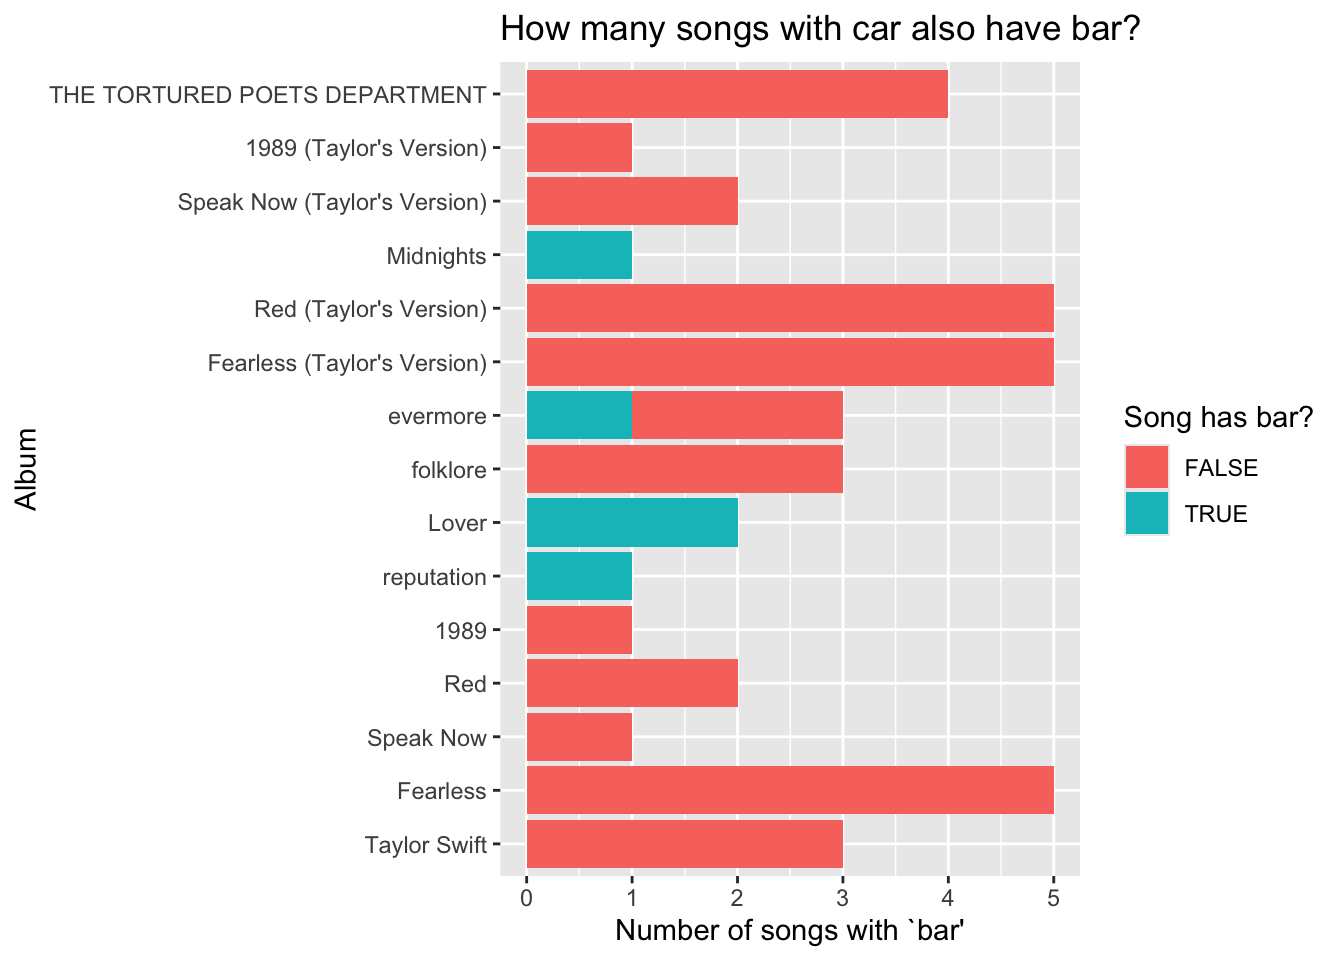
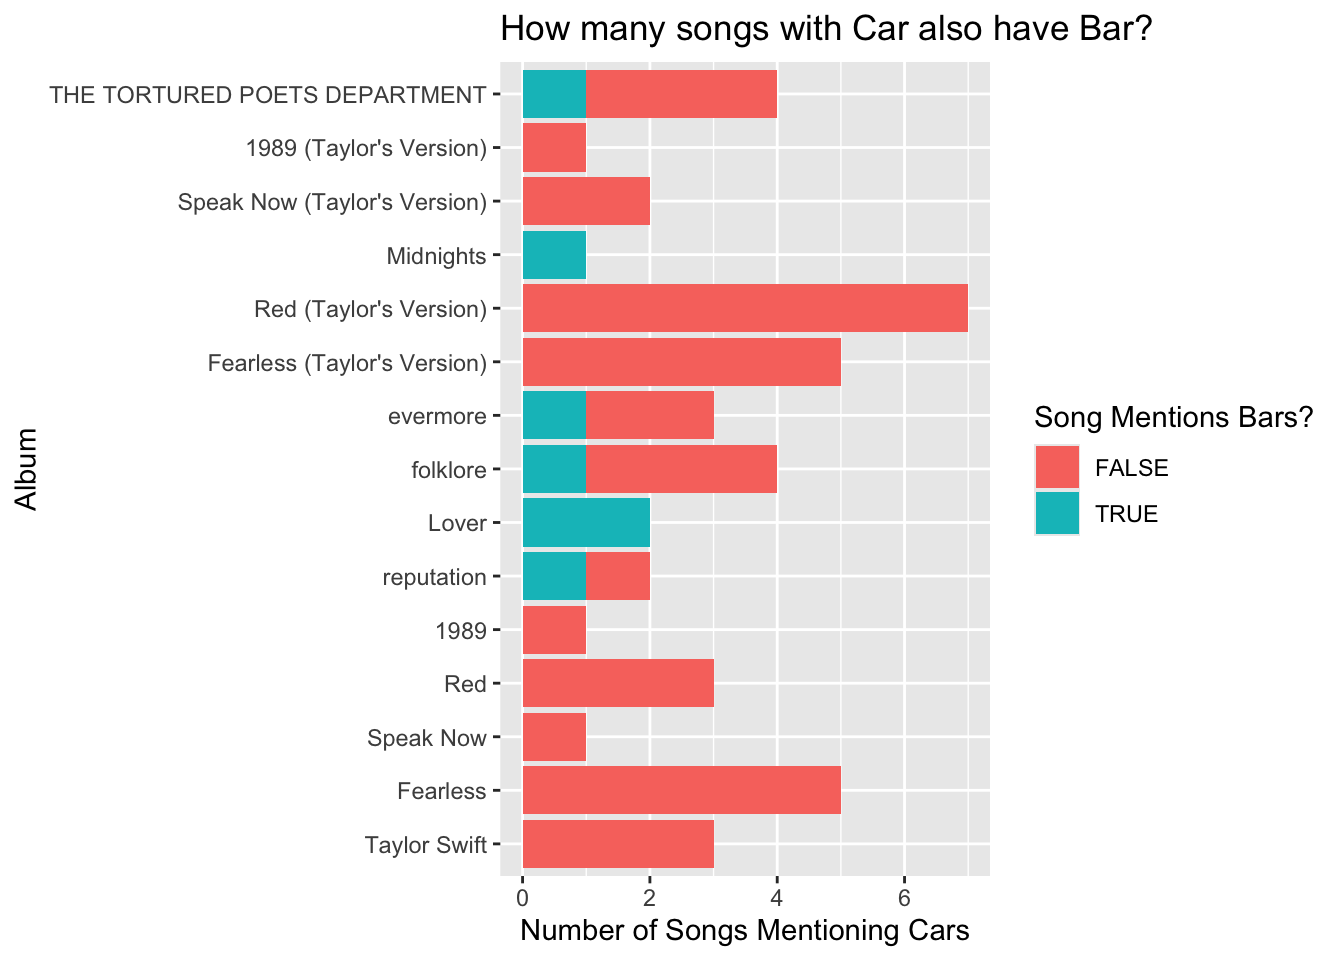
Kissing in cars and downtown bars

diff --git a/docs/about.html b/docs/about.html
@@ -215,8 +215,8 @@ pre > code.sourceCode > span > a:first-child::before { text-decoration: underlin
 <details class="code-fold">
 <summary>R Code</summary>
 <div class="code-copy-outer-scaffold"><div class="sourceCode cell-code" id="cb3"><pre class="sourceCode r code-with-copy"><code class="sourceCode r"><span id="cb3-1"><a href="#cb3-1" aria-hidden="true" tabindex="-1"></a>car_bar_data <span class="ot">&lt;-</span> taylor_album_songs <span class="sc">|&gt;</span></span>
-<span id="cb3-2"><a href="#cb3-2" aria-hidden="true" tabindex="-1"></a>  <span class="fu">mutate</span>(<span class="at">car =</span> <span class="fu">str_detect</span>(lyrics, <span class="st">"</span><span class="sc">\\</span><span class="st">bcar</span><span class="sc">\\</span><span class="st">b"</span>)) <span class="sc">|&gt;</span></span>
-<span id="cb3-3"><a href="#cb3-3" aria-hidden="true" tabindex="-1"></a>  <span class="fu">mutate</span>(<span class="at">bar =</span> <span class="fu">str_detect</span>(lyrics, <span class="st">"</span><span class="sc">\\</span><span class="st">bbar</span><span class="sc">\\</span><span class="st">b"</span>)) <span class="sc">|&gt;</span></span>
+<span id="cb3-2"><a href="#cb3-2" aria-hidden="true" tabindex="-1"></a>  <span class="fu">mutate</span>(<span class="at">car =</span> <span class="fu">str_detect</span>(lyrics, <span class="st">"</span><span class="sc">\\</span><span class="st">b[Cc]ars?</span><span class="sc">\\</span><span class="st">b"</span>)) <span class="sc">|&gt;</span></span>
+<span id="cb3-3"><a href="#cb3-3" aria-hidden="true" tabindex="-1"></a>  <span class="fu">mutate</span>(<span class="at">bar =</span> <span class="fu">str_detect</span>(lyrics, <span class="st">"</span><span class="sc">\\</span><span class="st">b[Bb]ars?</span><span class="sc">\\</span><span class="st">b"</span>)) <span class="sc">|&gt;</span></span>
 <span id="cb3-4"><a href="#cb3-4" aria-hidden="true" tabindex="-1"></a>  <span class="fu">mutate</span>(<span class="at">car_bar =</span>  car <span class="sc">&amp;</span> bar) <span class="sc">|&gt;</span></span>
 <span id="cb3-5"><a href="#cb3-5" aria-hidden="true" tabindex="-1"></a>  <span class="fu">mutate</span>(<span class="at">car_or_bar =</span>  car <span class="sc">|</span> bar)</span></code></pre></div><button title="Copy to Clipboard" class="code-copy-button"><i class="bi"></i></button></div>
 </details>
@@ -227,10 +227,10 @@ pre > code.sourceCode > span > a:first-child::before { text-decoration: underlin
 <div class="code-copy-outer-scaffold"><div class="sourceCode cell-code" id="cb4"><pre class="sourceCode r code-with-copy"><code class="sourceCode r"><span id="cb4-1"><a href="#cb4-1" aria-hidden="true" tabindex="-1"></a><span class="fu">ggplot</span>(<span class="fu">filter</span>(car_bar_data, bar), <span class="fu">aes</span>(<span class="at">x =</span> <span class="fu">fct_relevel</span>(album_name, album_levels), <span class="at">fill =</span> car_bar)) <span class="sc">+</span></span>
 <span id="cb4-2"><a href="#cb4-2" aria-hidden="true" tabindex="-1"></a><span class="fu">geom_bar</span>() <span class="sc">+</span></span>
 <span id="cb4-3"><a href="#cb4-3" aria-hidden="true" tabindex="-1"></a><span class="fu">labs</span>(</span>
-<span id="cb4-4"><a href="#cb4-4" aria-hidden="true" tabindex="-1"></a><span class="at">title =</span> <span class="st">"How many songs with bar also have car?"</span>,</span>
+<span id="cb4-4"><a href="#cb4-4" aria-hidden="true" tabindex="-1"></a><span class="at">title =</span> <span class="st">"How many songs with Bar also have Car?"</span>,</span>
 <span id="cb4-5"><a href="#cb4-5" aria-hidden="true" tabindex="-1"></a><span class="at">x =</span> <span class="st">"Album"</span>,</span>
-<span id="cb4-6"><a href="#cb4-6" aria-hidden="true" tabindex="-1"></a><span class="at">y =</span> <span class="st">"Number of songs with `car'"</span>,</span>
-<span id="cb4-7"><a href="#cb4-7" aria-hidden="true" tabindex="-1"></a><span class="at">fill =</span> <span class="st">"Song has Car?"</span></span>
+<span id="cb4-6"><a href="#cb4-6" aria-hidden="true" tabindex="-1"></a><span class="at">y =</span> <span class="st">"Number of Songs Mentioning Bars"</span>,</span>
+<span id="cb4-7"><a href="#cb4-7" aria-hidden="true" tabindex="-1"></a><span class="at">fill =</span> <span class="st">"Song Mentions Cars?"</span></span>
 <span id="cb4-8"><a href="#cb4-8" aria-hidden="true" tabindex="-1"></a>)<span class="sc">+</span> <span class="fu">coord_flip</span>()</span></code></pre></div><button title="Copy to Clipboard" class="code-copy-button"><i class="bi"></i></button></div>
 </details>
 <div class="cell-output-display">
@@ -247,10 +247,10 @@ pre > code.sourceCode > span > a:first-child::before { text-decoration: underlin
 <div class="code-copy-outer-scaffold"><div class="sourceCode cell-code" id="cb5"><pre class="sourceCode r code-with-copy"><code class="sourceCode r"><span id="cb5-1"><a href="#cb5-1" aria-hidden="true" tabindex="-1"></a><span class="fu">ggplot</span>(<span class="fu">filter</span>(car_bar_data, car), <span class="fu">aes</span>(<span class="at">x =</span> <span class="fu">fct_relevel</span>(album_name, album_levels), <span class="at">fill =</span> car_bar)) <span class="sc">+</span></span>
 <span id="cb5-2"><a href="#cb5-2" aria-hidden="true" tabindex="-1"></a><span class="fu">geom_bar</span>() <span class="sc">+</span></span>
 <span id="cb5-3"><a href="#cb5-3" aria-hidden="true" tabindex="-1"></a><span class="fu">labs</span>(</span>
-<span id="cb5-4"><a href="#cb5-4" aria-hidden="true" tabindex="-1"></a><span class="at">title =</span> <span class="st">"How many songs with car also have bar?"</span>,</span>
+<span id="cb5-4"><a href="#cb5-4" aria-hidden="true" tabindex="-1"></a><span class="at">title =</span> <span class="st">"How many songs with Car also have Bar?"</span>,</span>
 <span id="cb5-5"><a href="#cb5-5" aria-hidden="true" tabindex="-1"></a><span class="at">x =</span> <span class="st">"Album"</span>,</span>
-<span id="cb5-6"><a href="#cb5-6" aria-hidden="true" tabindex="-1"></a><span class="at">y =</span> <span class="st">"Number of songs with `bar'"</span>,</span>
-<span id="cb5-7"><a href="#cb5-7" aria-hidden="true" tabindex="-1"></a><span class="at">fill =</span> <span class="st">"Song has bar?"</span></span>
+<span id="cb5-6"><a href="#cb5-6" aria-hidden="true" tabindex="-1"></a><span class="at">y =</span> <span class="st">"Number of Songs Mentioning Cars"</span>,</span>
+<span id="cb5-7"><a href="#cb5-7" aria-hidden="true" tabindex="-1"></a><span class="at">fill =</span> <span class="st">"Song Mentions Bars?"</span></span>
 <span id="cb5-8"><a href="#cb5-8" aria-hidden="true" tabindex="-1"></a>)<span class="sc">+</span> <span class="fu">coord_flip</span>()</span></code></pre></div><button title="Copy to Clipboard" class="code-copy-button"><i class="bi"></i></button></div>
 </details>
 <div class="cell-output-display">
@@ -267,10 +267,10 @@ pre > code.sourceCode > span > a:first-child::before { text-decoration: underlin
 <div class="code-copy-outer-scaffold"><div class="sourceCode cell-code" id="cb6"><pre class="sourceCode r code-with-copy"><code class="sourceCode r"><span id="cb6-1"><a href="#cb6-1" aria-hidden="true" tabindex="-1"></a><span class="fu">ggplot</span>(car_bar_data, <span class="fu">aes</span>(<span class="at">x =</span> <span class="fu">fct_relevel</span>(album_name, album_levels), <span class="at">fill =</span> car_or_bar)) <span class="sc">+</span></span>
 <span id="cb6-2"><a href="#cb6-2" aria-hidden="true" tabindex="-1"></a><span class="fu">geom_bar</span>() <span class="sc">+</span></span>
 <span id="cb6-3"><a href="#cb6-3" aria-hidden="true" tabindex="-1"></a><span class="fu">labs</span>(</span>
-<span id="cb6-4"><a href="#cb6-4" aria-hidden="true" tabindex="-1"></a><span class="at">title =</span> <span class="st">"How many songs have car or bar?"</span>,</span>
+<span id="cb6-4"><a href="#cb6-4" aria-hidden="true" tabindex="-1"></a><span class="at">title =</span> <span class="st">"How Many Songs Mention Cars or Bars?"</span>,</span>
 <span id="cb6-5"><a href="#cb6-5" aria-hidden="true" tabindex="-1"></a><span class="at">x =</span> <span class="st">"Album"</span>,</span>
-<span id="cb6-6"><a href="#cb6-6" aria-hidden="true" tabindex="-1"></a><span class="at">y =</span> <span class="st">"Number of songs with `car' or `bar'"</span>,</span>
-<span id="cb6-7"><a href="#cb6-7" aria-hidden="true" tabindex="-1"></a><span class="at">fill =</span> <span class="st">"Song has car or bar?"</span></span>
+<span id="cb6-6"><a href="#cb6-6" aria-hidden="true" tabindex="-1"></a><span class="at">y =</span> <span class="st">"Number of Songs"</span>,</span>
+<span id="cb6-7"><a href="#cb6-7" aria-hidden="true" tabindex="-1"></a><span class="at">fill =</span> <span class="st">"Song has 'car' or 'bar'?"</span></span>
 <span id="cb6-8"><a href="#cb6-8" aria-hidden="true" tabindex="-1"></a>)<span class="sc">+</span> <span class="fu">coord_flip</span>()</span></code></pre></div><button title="Copy to Clipboard" class="code-copy-button"><i class="bi"></i></button></div>
 </details>
 <div class="cell-output-display">
@@ -285,15 +285,15 @@ pre > code.sourceCode > span > a:first-child::before { text-decoration: underlin
 <details class="code-fold">
 <summary>R Code</summary>
 <div class="code-copy-outer-scaffold"><div class="sourceCode cell-code" id="cb7"><pre class="sourceCode r code-with-copy"><code class="sourceCode r"><span id="cb7-1"><a href="#cb7-1" aria-hidden="true" tabindex="-1"></a>car_all_data <span class="ot">&lt;-</span> car_bar_data <span class="sc">|&gt;</span></span>
-<span id="cb7-2"><a href="#cb7-2" aria-hidden="true" tabindex="-1"></a>  <span class="fu">mutate</span>(<span class="at">car_not_word =</span> <span class="fu">str_detect</span>(lyrics, <span class="st">"car"</span>))</span>
+<span id="cb7-2"><a href="#cb7-2" aria-hidden="true" tabindex="-1"></a>  <span class="fu">mutate</span>(<span class="at">car_not_word =</span> <span class="fu">str_detect</span>(lyrics, <span class="st">"[Cc]ars?"</span>))</span>
 <span id="cb7-3"><a href="#cb7-3" aria-hidden="true" tabindex="-1"></a></span>
 <span id="cb7-4"><a href="#cb7-4" aria-hidden="true" tabindex="-1"></a><span class="fu">ggplot</span>(<span class="fu">filter</span>(car_all_data, car_not_word), <span class="fu">aes</span>(<span class="at">x =</span> <span class="fu">fct_relevel</span>(album_name, album_levels), <span class="at">fill =</span> car)) <span class="sc">+</span></span>
 <span id="cb7-5"><a href="#cb7-5" aria-hidden="true" tabindex="-1"></a><span class="fu">geom_bar</span>() <span class="sc">+</span></span>
 <span id="cb7-6"><a href="#cb7-6" aria-hidden="true" tabindex="-1"></a><span class="fu">labs</span>(</span>
-<span id="cb7-7"><a href="#cb7-7" aria-hidden="true" tabindex="-1"></a><span class="at">title =</span> <span class="st">"How many songs with `car' have `car` as a full word"</span>,</span>
+<span id="cb7-7"><a href="#cb7-7" aria-hidden="true" tabindex="-1"></a><span class="at">title =</span> <span class="st">"How Many Songs with `Car' Mention Cars"</span>,</span>
 <span id="cb7-8"><a href="#cb7-8" aria-hidden="true" tabindex="-1"></a><span class="at">x =</span> <span class="st">"Album"</span>,</span>
-<span id="cb7-9"><a href="#cb7-9" aria-hidden="true" tabindex="-1"></a><span class="at">y =</span> <span class="st">"Number of songs with `car' as a full word"</span>,</span>
-<span id="cb7-10"><a href="#cb7-10" aria-hidden="true" tabindex="-1"></a><span class="at">fill =</span> <span class="st">"Car is a full word"</span></span>
+<span id="cb7-9"><a href="#cb7-9" aria-hidden="true" tabindex="-1"></a><span class="at">y =</span> <span class="st">"Number of Songs with 'C/car' or 'C/cars' in the Lyrics"</span>,</span>
+<span id="cb7-10"><a href="#cb7-10" aria-hidden="true" tabindex="-1"></a><span class="at">fill =</span> <span class="st">"Mentions Cars"</span></span>
 <span id="cb7-11"><a href="#cb7-11" aria-hidden="true" tabindex="-1"></a>)<span class="sc">+</span> <span class="fu">coord_flip</span>()</span></code></pre></div><button title="Copy to Clipboard" class="code-copy-button"><i class="bi"></i></button></div>
 </details>
 <div class="cell-output-display">
